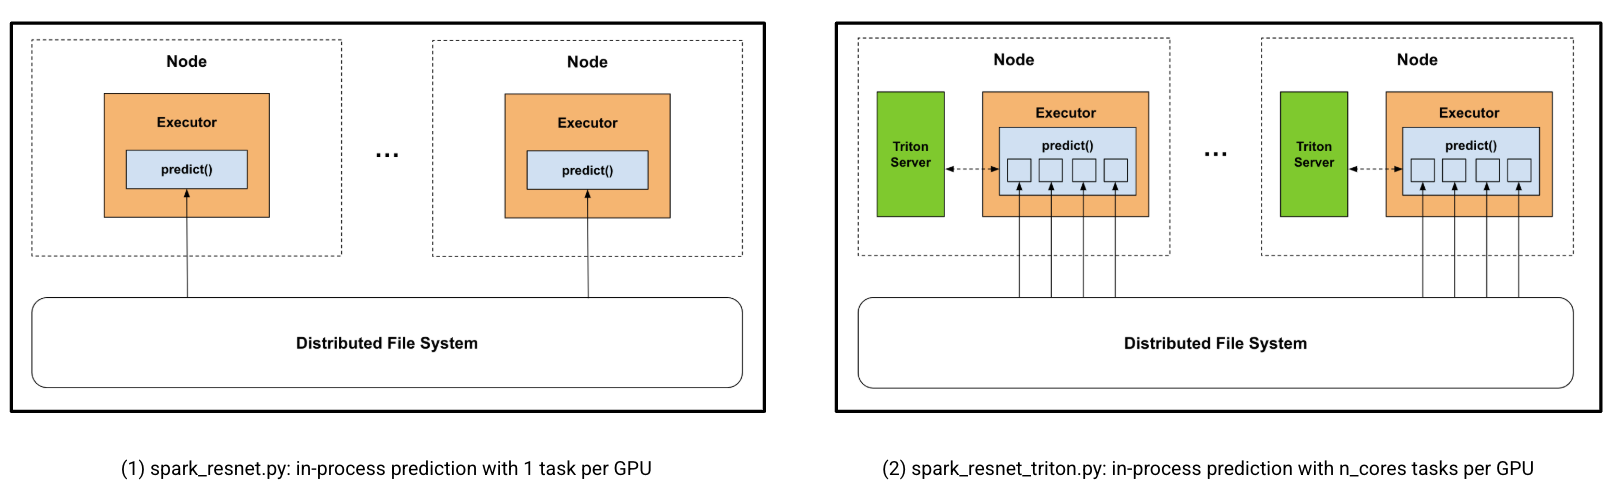
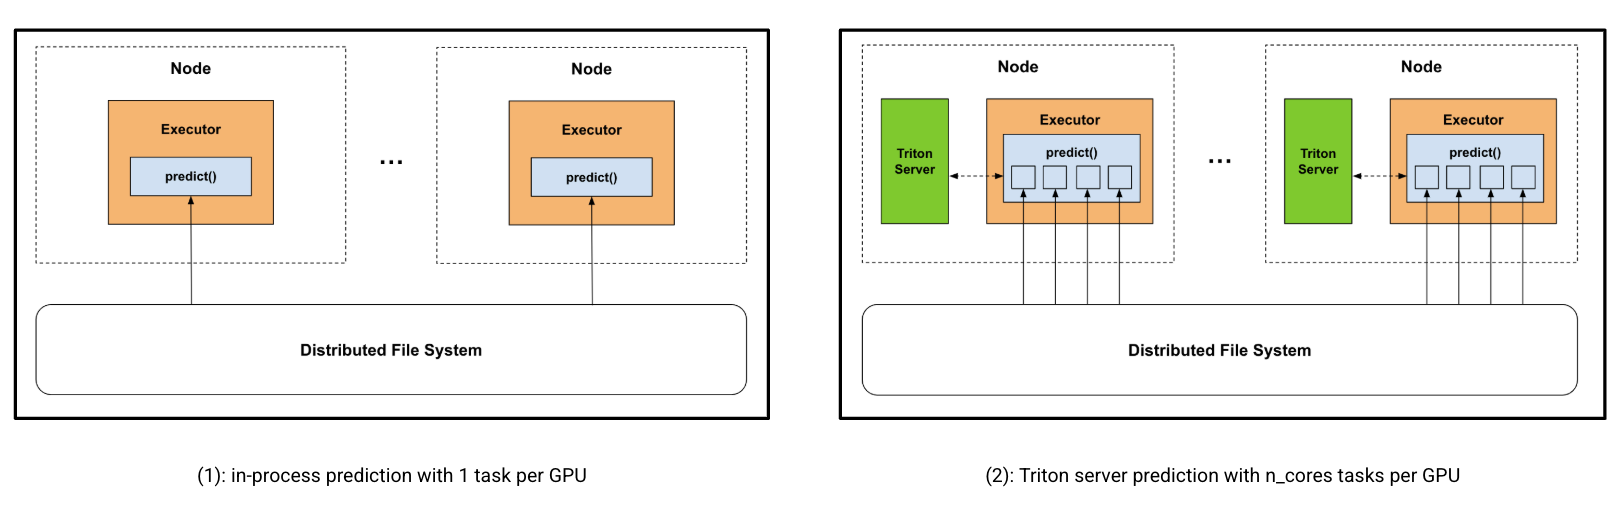
Update readme

diff --git a/examples/ML+DL-Examples/Spark-DL/dl_inference/benchmark/README.md b/examples/ML+DL-Examples/Spark-DL/dl_inference/benchmark/README.md
@@ -1,8 +1,8 @@
 # Batch Inference Benchmark
 
-This folder contains the benchmark code to compare:
-1. [`spark_resnet.py`](spark_resnet.py): Uses predict_batch_udf to perform in-process prediction on the GPU.
-2. [`spark_resnet_triton.py`](spark_resnet_triton.py): Uses predict_batch_udf to send inference requests to Triton, which performs inference on the GPU.
+This folder contains the benchmark code to assess the benefits of Spark DL inference on Triton:
+1. Use predict_batch_udf to perform in-process prediction on the GPU.
+2. Use predict_batch_udf to send inference requests to Triton, which performs inference on the GPU.
 
 Spark cannot change the task parallelism within a stage based on the resources required (i.e., multiple CPUs for preprocessing vs. single GPU for inference). Therefore, implementation (1) will limit to 1 task per GPU to enable one instance of the model on the GPU. In contrast, implementation (2) allows as many tasks to run in parallel as cores on the executor, since Triton handles inference on the GPU.
 
@@ -35,7 +35,20 @@ export SPARK_WORKER_OPTS="-Dspark.worker.resource.gpu.amount=1 \
 ${SPARK_HOME}/sbin/start-master.sh; ${SPARK_HOME}/sbin/start-worker.sh -c ${CORES_PER_WORKER} -m 32G ${MASTER}
 ```
 
-The Spark configurations we used for the two implementations can be found under [`bench_spark_resnet.sh`](bench_spark_resnet.sh)  and [`bench_spark_resnet_triton.sh`](bench_spark_resnet_triton.sh) respectively. The only differences are in the task parallelism, i.e. `spark.task.resource.gpu.amount` and `spark.task.cpus`.
+The Spark configurations used for the two implementations can be found under the launch script [`run_bench_spark_resnet.sh`](run_bench_spark_resnet.sh). The only differences are in the task parallelism, i.e. `spark.task.resource.gpu.amount` and `spark.task.cpus`.
+
+### Running the Benchmark
+
+The script can be run like so:
+```shell
+# Implementation 1 - in-process prediction 
+./run_bench_spark_resnet.sh -t base
+# Run implementation 2 - Triton server prediction
+./run_bench_spark_resnet.sh -t triton
+```
+The batch size used in `predict_batch_udf` can be configured with `-b batch_size`. Note this corresponds to different things in the two implementations: in implementation 1, this is the batch size used in the model, and in implementation 2, this is the client's batch size in each inference request, which may be dynamically batched by the server. 
+
+By default, we use `-b 1024` for the base implementation, and `-b 256` for Triton with a server-side max batch size of 1024. We experimented with other batch sizes (e.g., smaller in-process batch sizes and larger client-side batch sizes for Triton), but these defaults gave the best results for both.
 
 ### Results
 
